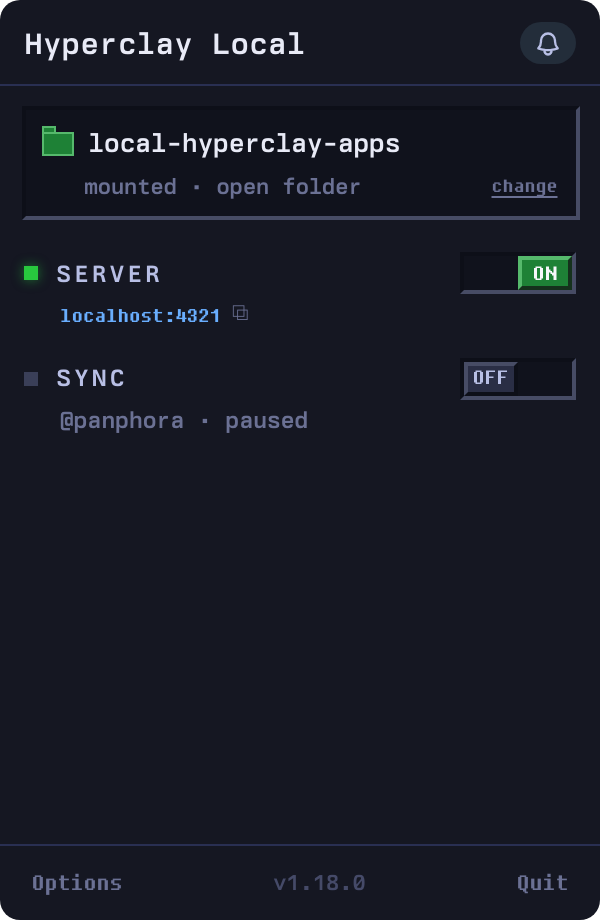
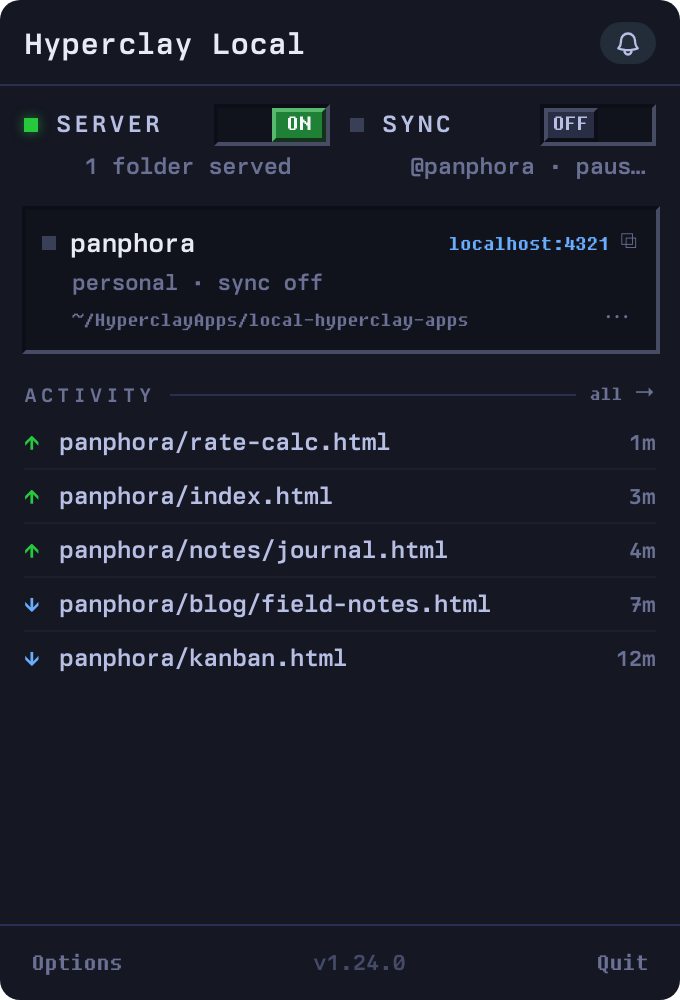
Popover 340x500 so three activity lines fit beside three team cards; website hero and shots for the new layout

diff --git a/website/index.html b/website/index.html
@@ -134,7 +134,7 @@
     /* Framed screenshot as a menu-bar tray popover. */
     .hero-shot { display: flex; flex-direction: column; align-items: center; margin-top: 40px; }
     .shot-frame {
-      position: relative; margin-top: 0; width: 300px; max-width: 100%;
+      position: relative; margin-top: 0; width: 340px; max-width: 100%;
       border-radius: 11px; overflow: hidden;
       box-shadow: 0 32px 60px -32px var(--shot-shadow), 0 12px 22px -18px var(--shot-shadow);
     }
@@ -173,10 +173,10 @@
     }
     .shot-hotspot:hover, .shot-hotspot:focus-visible { outline: none; background: rgba(255, 255, 255, .06); }
     .shot-hotspot:hover::after, .shot-hotspot:focus-visible::after { opacity: 1; }
-    .shot-hotspot--server { left: 71%; top: 25.5%; width: 27%; height: 8%; }
-    .shot-hotspot--sync   { left: 71%; top: 36.5%; width: 27%; height: 8%; }
-    .shot-hotspot--bell   { left: 82.5%; top: 1.8%; width: 15%; height: 7.5%; border-radius: 20px; }
-    .shot-hotspot--back   { left: 2.5%;  top: 1.8%; width: 15%; height: 7.5%; border-radius: 20px; }
+    .shot-hotspot--server { left: 30%;  top: 9.5%; width: 20%; height: 6%; }
+    .shot-hotspot--sync   { left: 78%;  top: 9.5%; width: 20%; height: 6%; }
+    .shot-hotspot--bell   { left: 86%;  top: 1.5%; width: 12%; height: 6%; border-radius: 20px; }
+    .shot-hotspot--back   { left: 2.5%; top: 1.5%; width: 11%; height: 6%; border-radius: 20px; }
     #hero-shot[data-view="home"] .shot-hotspot--back { display: none; }
     #hero-shot[data-view="notices"] .shot-hotspot--server,
     #hero-shot[data-view="notices"] .shot-hotspot--sync,
@@ -480,7 +480,7 @@
 
       <div class="hero-shot">
         <div class="shot-frame" id="hero-shot" data-view="home">
-          <img id="hero-img" src="assets/app-popover.png" width="300" height="460" alt="Hyperclay Local menu-bar app: a folder set to local-hyperclay-apps, the server running on localhost:4321, sync on as @panphora synced two minutes ago, and a recent-activity feed of saved HTML files.">
+          <img id="hero-img" src="assets/app-popover.png" width="340" height="500" alt="Hyperclay Local menu-bar app: a folder set to local-hyperclay-apps, the server running on localhost:4321, sync on as @panphora synced two minutes ago, and a recent-activity feed of saved HTML files.">
           <button type="button" class="shot-hotspot shot-hotspot--server" data-act="server" aria-label="Toggle the local server on or off"></button>
           <button type="button" class="shot-hotspot shot-hotspot--sync" data-act="sync" aria-label="Toggle cloud sync on or off"></button>
           <button type="button" class="shot-hotspot shot-hotspot--bell" data-act="bell" aria-label="Open notices"></button>

diff --git a/scripts/popover-scenarios.js b/scripts/popover-scenarios.js
@@ -28,7 +28,7 @@ const { switchSublines } = require('../src/main/ui/card-model');
 
 const FOLDER = '/Users/panphora/HyperclayApps/local-hyperclay-apps';
 const USERNAME = 'panphora';
-const APP_VERSION = '1.18.0';
+const APP_VERSION = '1.24.0';
 
 const HOME = '/Users/panphora';
 const DEV_HOME = '/Users/alex';

diff --git a/src/main/popover-dimensions.js b/src/main/popover-dimensions.js
@@ -3,5 +3,5 @@
 // scripts/screenshot-popover.js (so marketing captures match the real window).
 module.exports = {
   PANEL_WIDTH: 340,
-  PANEL_HEIGHT: 460,
+  PANEL_HEIGHT: 500,
 };

diff --git a/WEBSITE.md b/WEBSITE.md
@@ -54,7 +54,7 @@ npm run screenshot:setup     # one time: downloads the Chromium used for capture
 npm run screenshot:popover   # builds css+react, writes assets/app-popover-*.png
 ```
 
-It loads the actual `src/renderer/popover.html` in headless Chromium with a stubbed `electronAPI` seeded to each state, and screenshots `#root` at the real window size (300x460) times deviceScaleFactor 2 → 600x920 retina. Captured states: `on-on`, `on-off`, `off-off`, `off-on` (the SERVER/SYNC matrix) and `notices`. `app-popover.png` is kept as an alias of the `on-on` hero.
+It loads the actual `src/renderer/popover.html` in headless Chromium with a stubbed `electronAPI` seeded to each state, and screenshots `#root` at the real window size (340x500) times deviceScaleFactor 2 → 680x1000 retina. Captured states: `on-on`, `on-off`, `off-off`, `off-on` (the SERVER/SYNC matrix) and `notices`. `app-popover.png` is kept as an alias of the `on-on` hero.
 
 - States live in `scripts/popover-scenarios.js` (data only; user is `@panphora`).
 - The engine is `scripts/screenshot-popover.js`; it asserts its `electronAPI` stub covers every method the real `src/main/popover-preload.js` exposes, so a UI change that starts calling a new method fails loudly instead of silently mis-rendering.
@@ -65,7 +65,7 @@ Re-run this after any change to the popover UI.
 
 ### Interactive hero
 
-The hero `#hero-shot` frame holds one `<img id="hero-img">` plus four transparent `.shot-hotspot` buttons positioned (in %) over the SERVER rocker, SYNC rocker, bell, and the notices back-arrow. A small inline script tracks `(server, sync, view)` and swaps `img.src`/`img.alt` between the five PNGs; the back arrow returns to the last toggle combo. Hotspot positions are percentages of the 300x460 frame, so they stay aligned as the shot scales. If the popover layout moves a control, nudge the matching `.shot-hotspot--*` rule.
+The hero `#hero-shot` frame holds one `<img id="hero-img">` plus four transparent `.shot-hotspot` buttons positioned (in %) over the SERVER rocker, SYNC rocker, bell, and the notices back-arrow. A small inline script tracks `(server, sync, view)` and swaps `img.src`/`img.alt` between the five PNGs; the back arrow returns to the last toggle combo. Hotspot positions are percentages of the 340x500 frame, so they stay aligned as the shot scales. If the popover layout moves a control, nudge the matching `.shot-hotspot--*` rule.
 
 ## Design Notes
 
